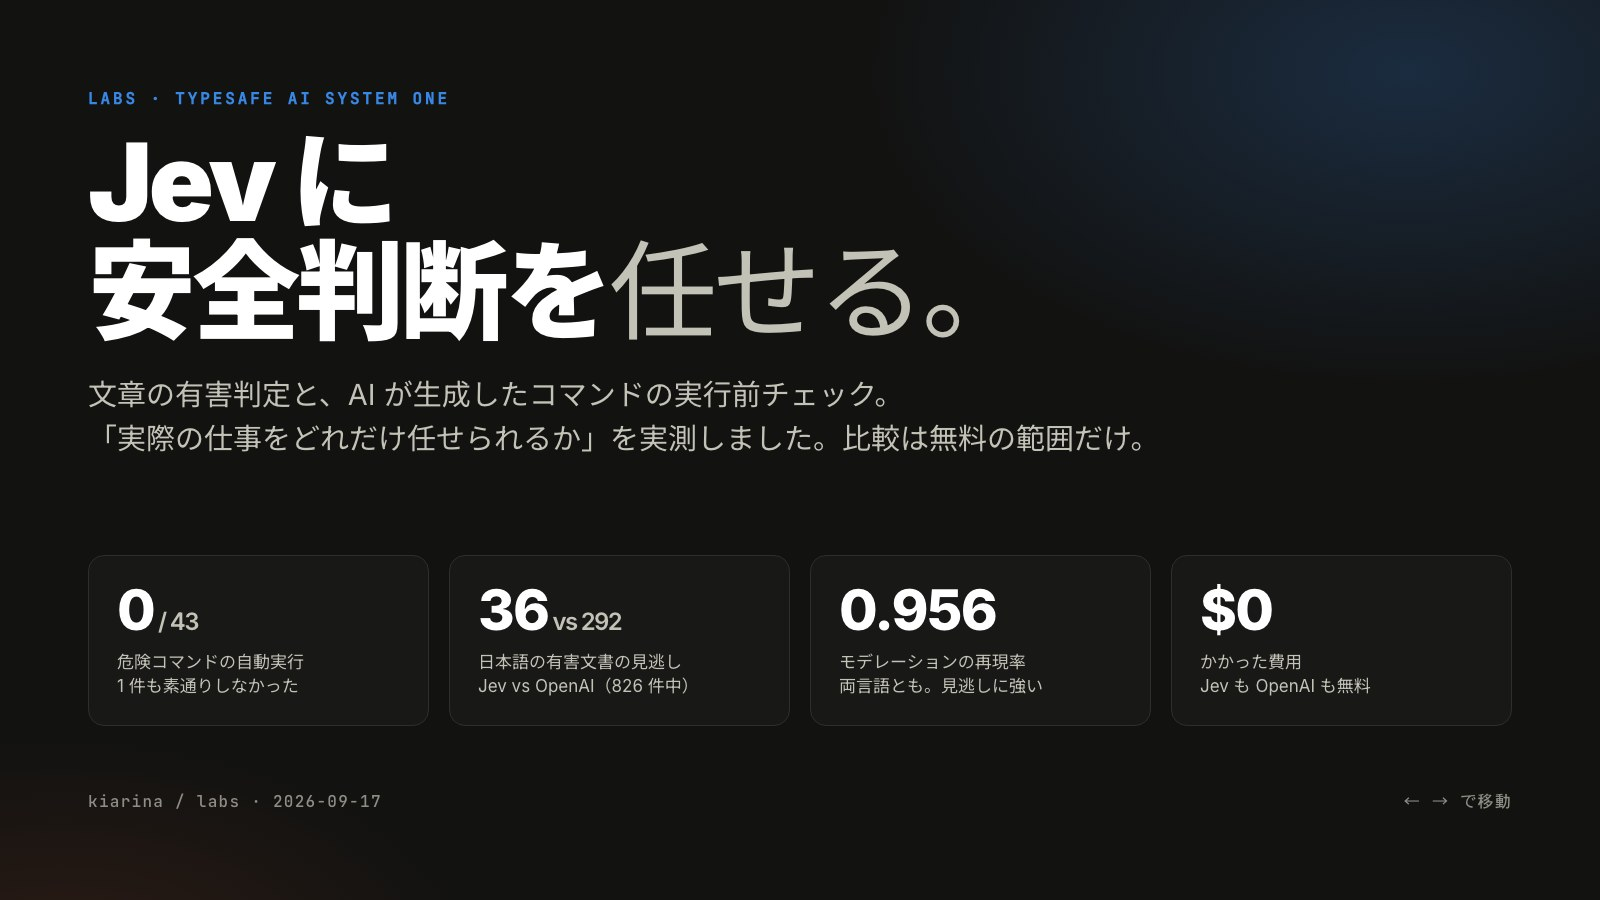
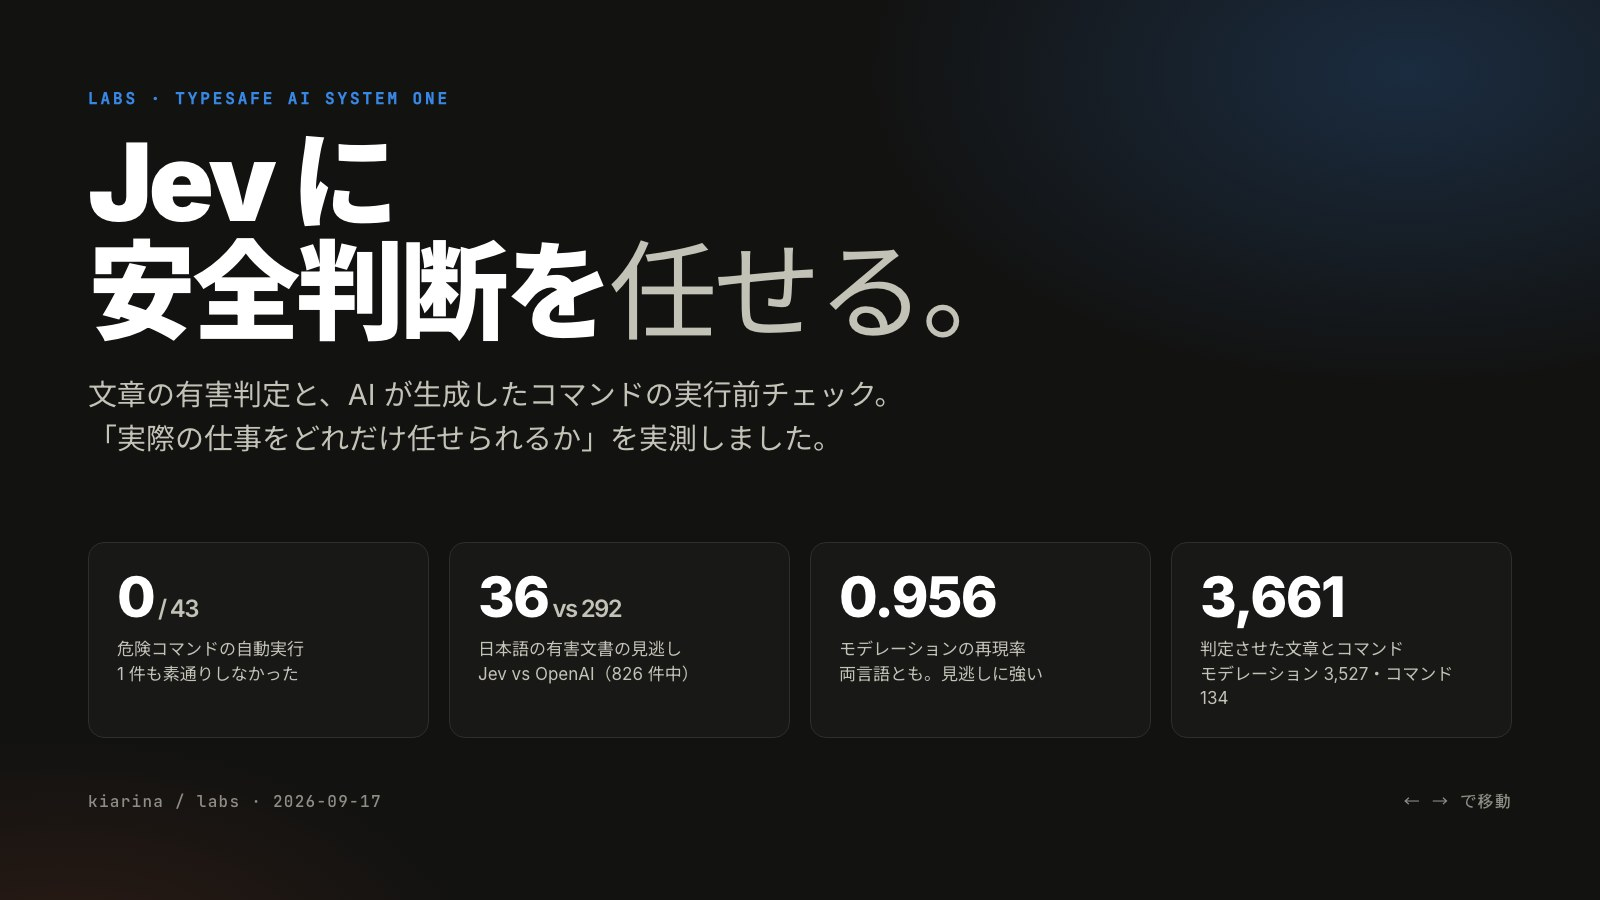
Replace the cover cost tile with the dataset size

diff --git a/2026/09/17/typesafe-jev-safety-judgment/slides/index.html b/2026/09/17/typesafe-jev-safety-judgment/slides/index.html
@@ -105,13 +105,13 @@ pre .k { color: #86b6ef; } pre .s { color: #f0a47e; } pre .n { color: #9be0bf; }
   <div>
     <p class="eyebrow">labs · TypeSafe AI System One</p>
     <h1>Jev に<br>安全判断を<span class="thin">任せる。</span></h1>
-    <p class="sub">文章の有害判定と、AI が生成したコマンドの実行前チェック。<br>「実際の仕事をどれだけ任せられるか」を実測しました。比較は無料の範囲だけ。</p>
+    <p class="sub">文章の有害判定と、AI が生成したコマンドの実行前チェック。<br>「実際の仕事をどれだけ任せられるか」を実測しました。</p>
   </div>
   <div class="tiles">
     <div class="tile"><div class="num">0<small>/ 43</small></div><div class="lbl">危険コマンドの自動実行<br>1 件も素通りしなかった</div></div>
     <div class="tile"><div class="num">36<small>vs 292</small></div><div class="lbl">日本語の有害文書の見逃し<br>Jev vs OpenAI（826 件中）</div></div>
     <div class="tile"><div class="num">0.956</div><div class="lbl">モデレーションの再現率<br>両言語とも。見逃しに強い</div></div>
-    <div class="tile"><div class="num">$0</div><div class="lbl">かかった費用<br>Jev も OpenAI も無料</div></div>
+    <div class="tile"><div class="num">3,661</div><div class="lbl">判定させた文章とコマンド<br>モデレーション 3,527・コマンド 134</div></div>
   </div>
   <div class="byline"><span>kiarina / labs · 2026-09-17</span><span>← → で移動</span></div>
 </section>
